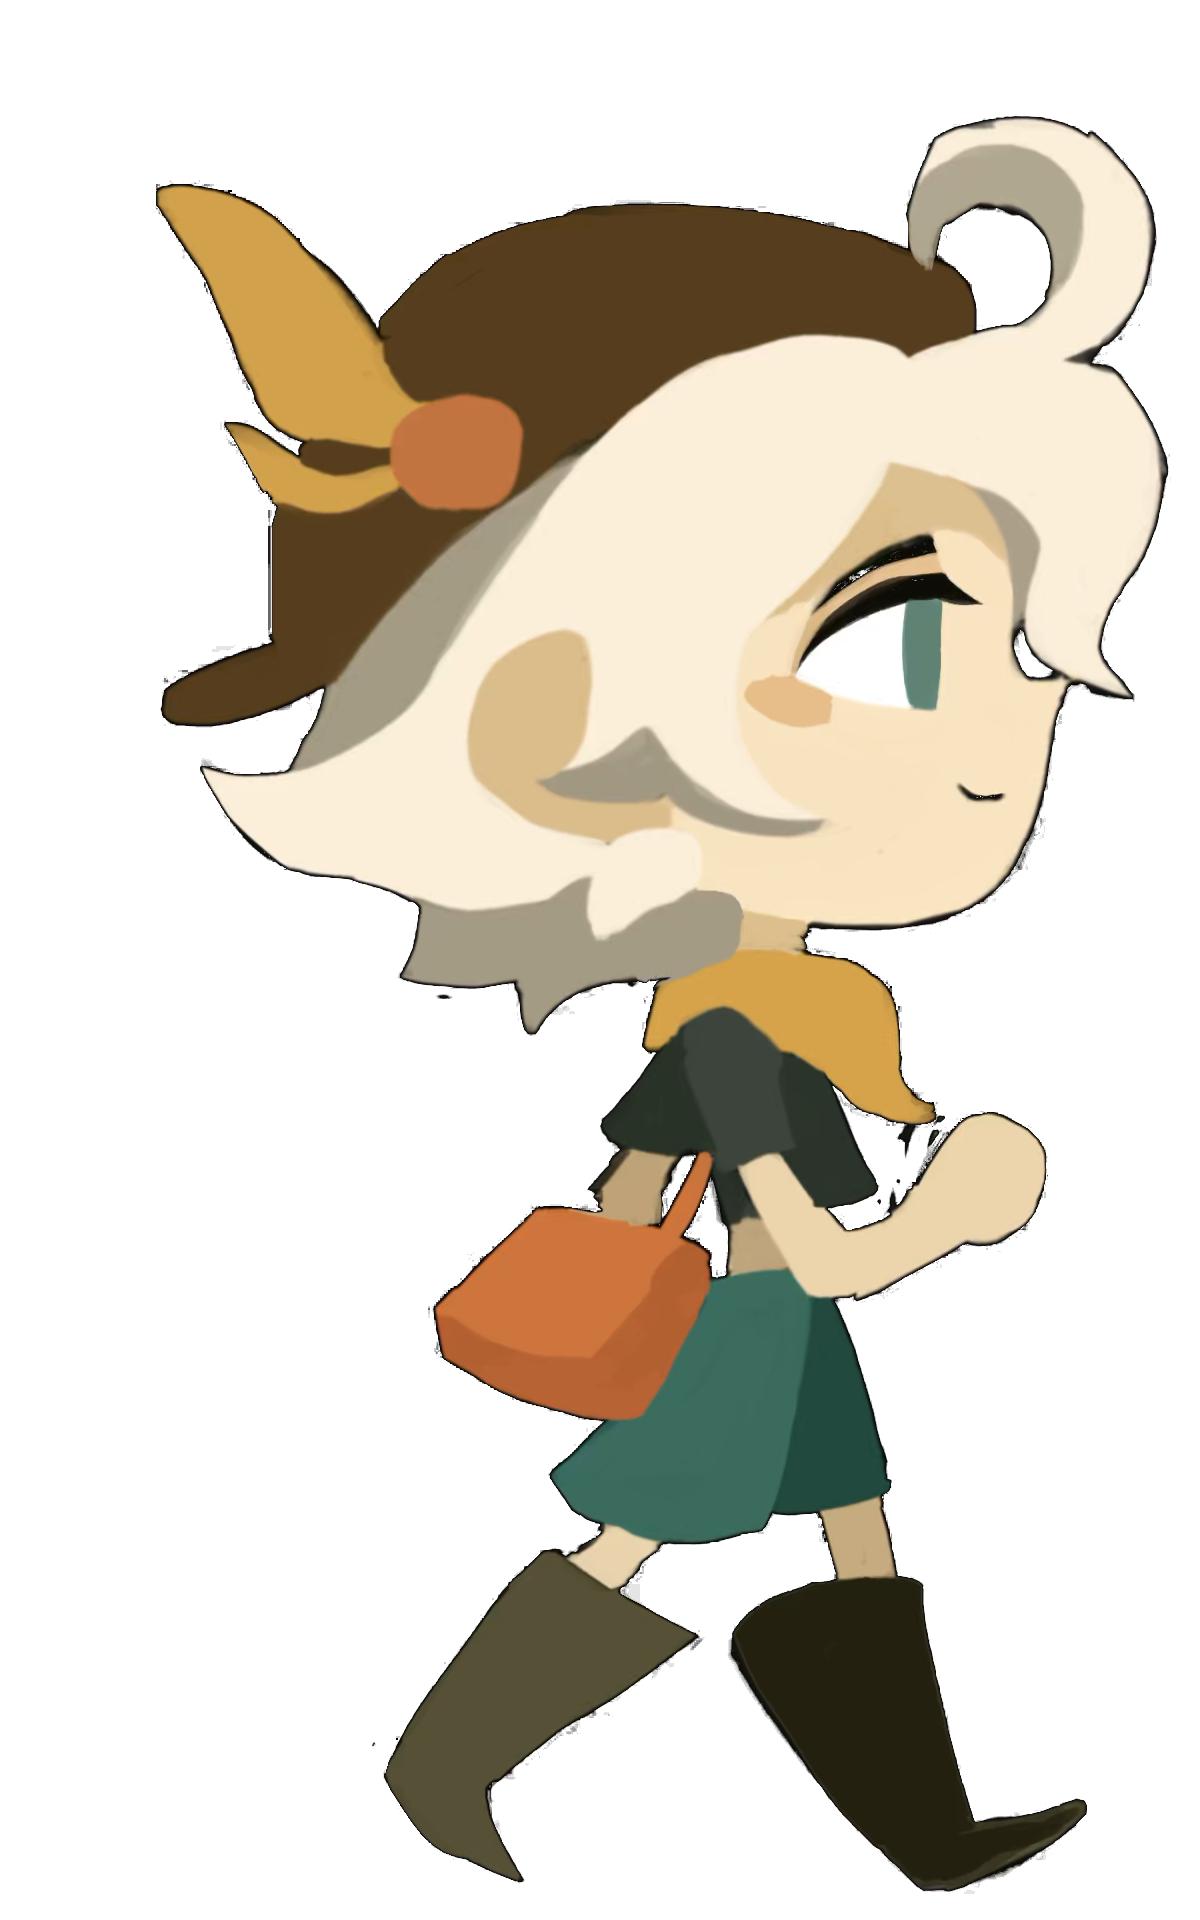
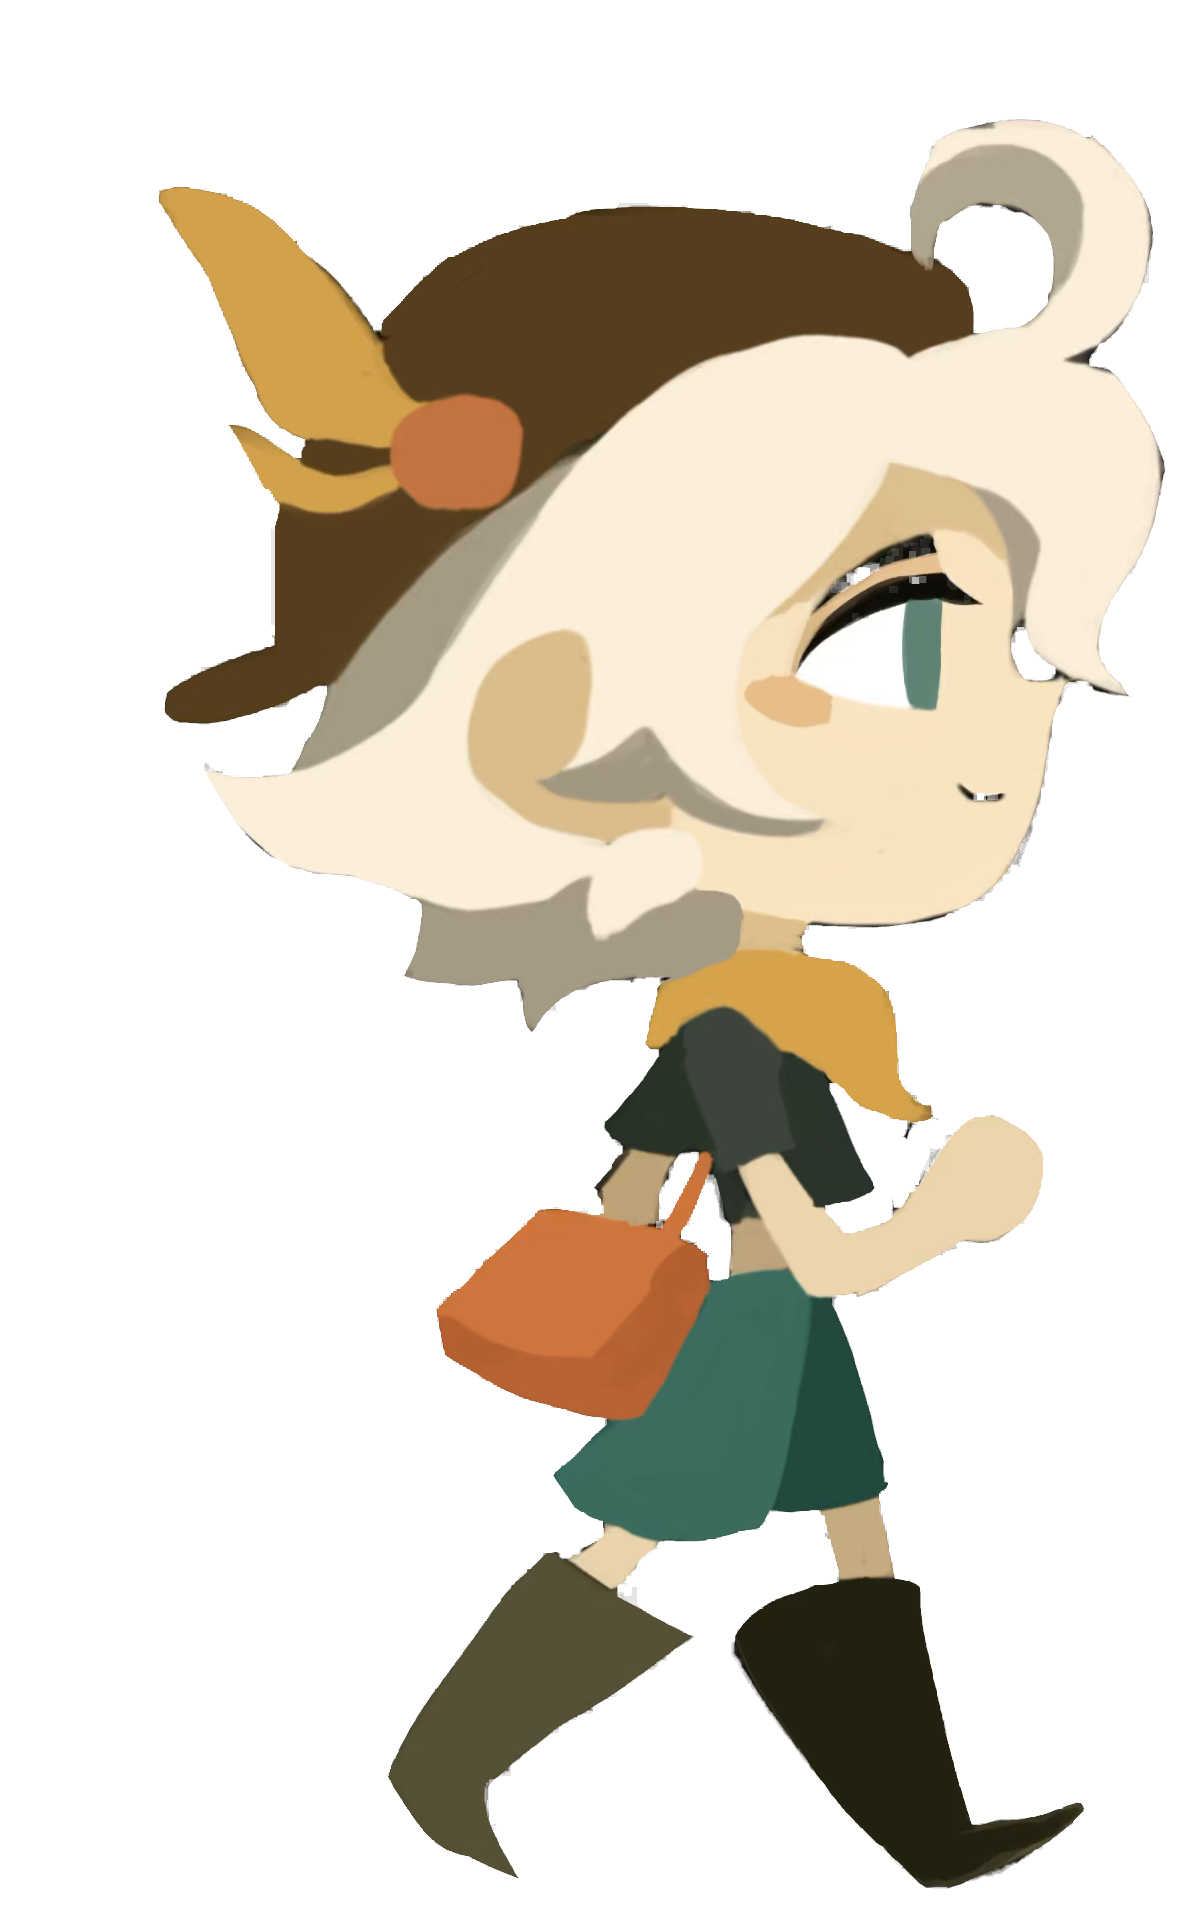
Remove decoded black matte fringe from walking frame transparency

diff --git a/tools/import_walk_20261110.py b/tools/import_walk_20261110.py
@@ -6,7 +6,7 @@ Only derived frames enter the repository. Never writes the source movie.
 import hashlib, json, subprocess, sys, tempfile
 from pathlib import Path
 import numpy as np
-from PIL import Image
+from PIL import Image, ImageFilter
 
 root = Path(__file__).resolve().parents[1]
 source, ffmpeg = Path(sys.argv[1]), sys.argv[2]
@@ -25,7 +25,10 @@ with tempfile.TemporaryDirectory() as tmp:
         # Decoded HEVC has a black matte. Only near-black matte is removed;
         # character pigments remain unchanged, including the dark boots.
         alpha = np.clip((rgb.max(2).astype(float)-2)/10, 0, 1)
-        rgba = np.dstack([rgb, np.rint(alpha*255).astype('uint8')])
+        # HEVC subsampling leaves a 2-3 source-pixel black fringe. Contract
+        # only the alpha edge at full source resolution (under 0.3 game px).
+        coverage = Image.fromarray(np.rint(alpha*255).astype('uint8')).filter(ImageFilter.MinFilter(7))
+        rgba = np.dstack([rgb, np.asarray(coverage)])
         target = out/f'walk_{index:02d}.png'
         Image.fromarray(rgba).save(target)
         frames.append(dict(path='res://'+target.relative_to(root).as_posix(),
